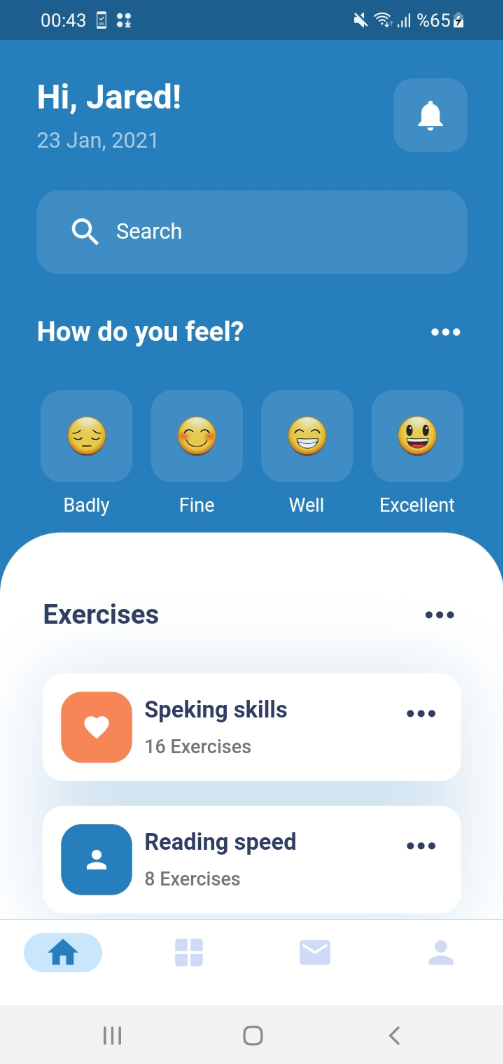
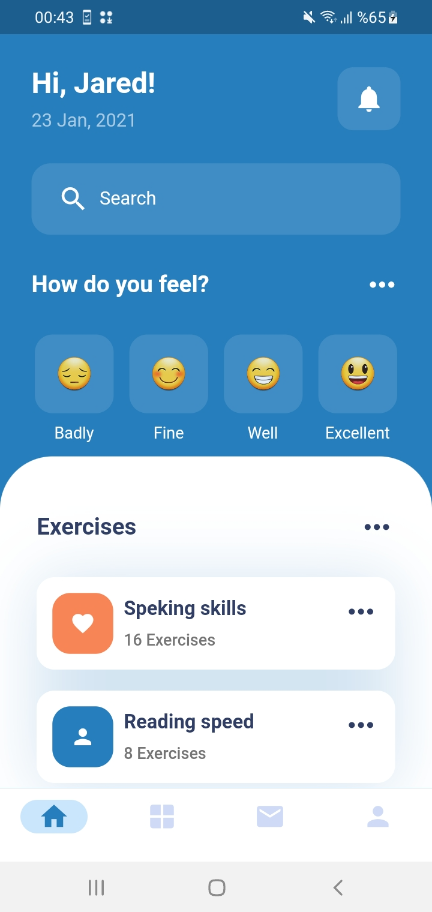
Updated readme

diff --git a/README.md b/README.md
@@ -6,7 +6,7 @@
 <img src="assets/screenshots/screen1.png" />
 
 ### Draggable Sheet
-<img src="assets/screenshots/screen2.jpg" />
+<img src="assets/screenshots/screen2.png" />
 
 ## Source
 
